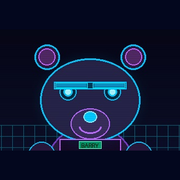
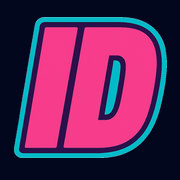
Replace iOS/Safari branding with ID mark and IDYNIFY name
- apple-touch-icon.png: replaced Barry bear with ID mark (180x180,
  85% fill, optically centered, #03071E background)
- apple-mobile-web-app-title: "Idynify Scout" → "IDYNIFY"
- og:title / twitter:title: "Find your ideal clients in minutes" → "IDYNIFY"
- <title>: "idynify Scout - ..." → "IDYNIFY — ..."
- Service worker cache bumped to v3

Safari share preview and Add to Home Screen now both show the
ID mark + IDYNIFY product name instead of Barry.

Claude-Session: https://claude.ai/code/session_011SitJZe3vxMEf9fPqXttqH

diff --git a/index.html b/index.html
@@ -14,7 +14,7 @@
     <meta name="mobile-web-app-capable" content="yes" />
     <meta name="apple-mobile-web-app-capable" content="yes" />
     <meta name="apple-mobile-web-app-status-bar-style" content="default" />
-    <meta name="apple-mobile-web-app-title" content="Idynify Scout" />
+    <meta name="apple-mobile-web-app-title" content="IDYNIFY" />
     <!-- Android / Chrome: tints the browser address bar to match the app brand colour -->
     <meta name="theme-color" content="#ec4899" />
     <!-- Manifest link — see /public/manifest.json (to be created) -->
@@ -26,14 +26,14 @@
     <link href="https://fonts.googleapis.com/css2?family=Inter:wght@300;400;500;600;700;800&family=Orbitron:wght@400;500;600;700;800;900&display=swap" rel="stylesheet" />
 
     <!-- Primary Meta Tags -->
-    <title>idynify Scout - Find Your Ideal Clients in Minutes</title>
-    <meta name="title" content="idynify Scout - Find Your Ideal Clients in Minutes" />
+    <title>IDYNIFY — Find Your Ideal Clients in Minutes</title>
+    <meta name="title" content="IDYNIFY — Find Your Ideal Clients in Minutes" />
     <meta name="description" content="It's like Tinder for your ICP. Find and build real relationships with the right people — powered by AI." />
 
     <!-- Open Graph / Facebook -->
     <meta property="og:type" content="website" />
     <meta property="og:url" content="https://idynify-scout.netlify.app/" />
-    <meta property="og:title" content="Find your ideal clients in minutes" />
+    <meta property="og:title" content="IDYNIFY" />
     <meta property="og:description" content="It's like Tinder for your ICP" />
     <meta property="og:image" content="https://idynify-scout.netlify.app/social-preview.png" />
     <meta property="og:image:width" content="1200" />
@@ -42,7 +42,7 @@
     <!-- Twitter -->
     <meta property="twitter:card" content="summary_large_image" />
     <meta property="twitter:url" content="https://idynify-scout.netlify.app/" />
-    <meta property="twitter:title" content="Find your ideal clients in minutes" />
+    <meta property="twitter:title" content="IDYNIFY" />
     <meta property="twitter:description" content="It's like Tinder for your ICP" />
     <meta property="twitter:image" content="https://idynify-scout.netlify.app/social-preview.png" />
   </head>

diff --git a/public/sw.js b/public/sw.js
@@ -1,5 +1,5 @@
 // Idynify Scout Service Worker
-const CACHE_NAME = 'idynify-scout-v2';
+const CACHE_NAME = 'idynify-scout-v3';
 
 // On install, take control immediately
 self.addEventListener('install', (event) => {
